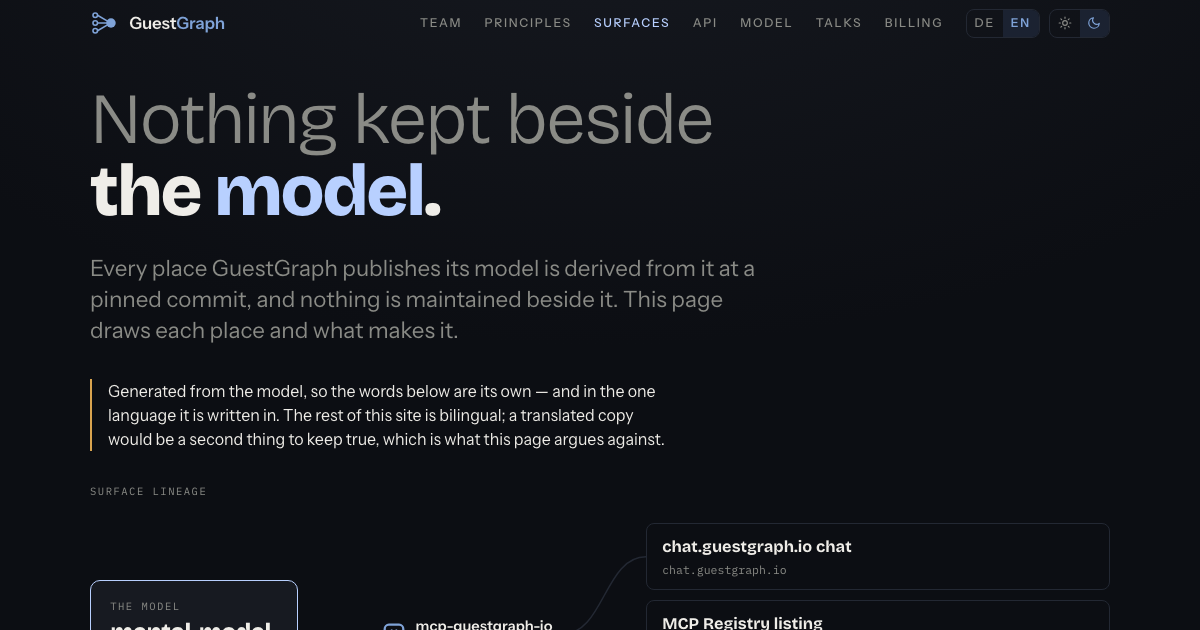
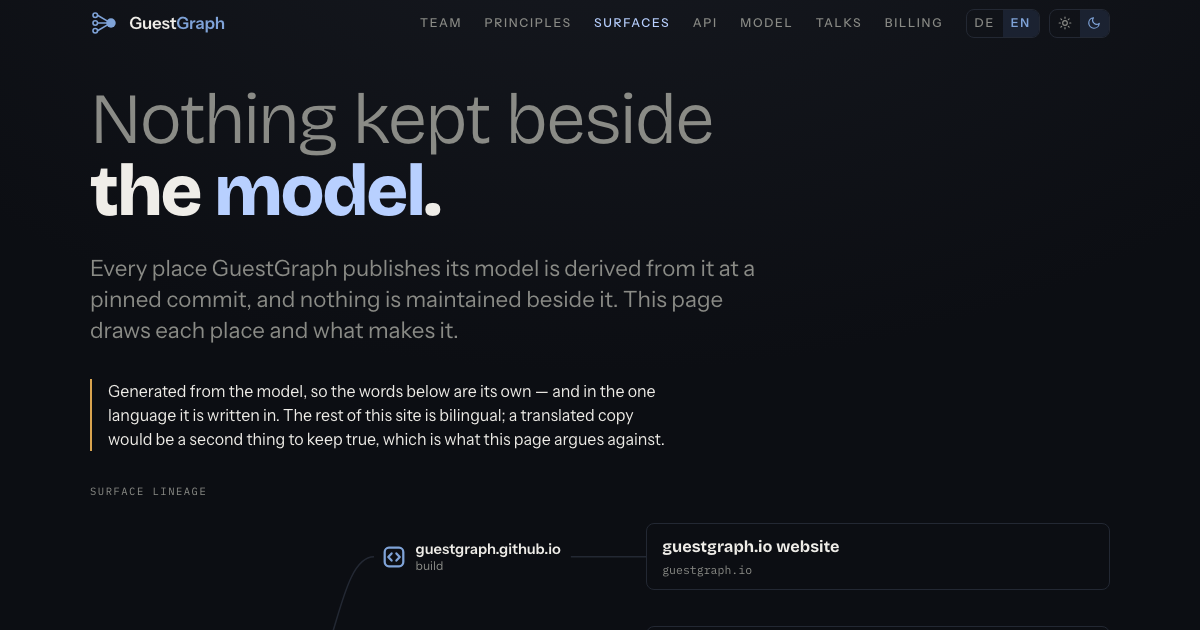
The site draws the model at the merge that made it a surface
`source.json` moves from 1ed82ea to e80418e, guestgraph/mental-model#4's merge, where guestgraph.io is a surface built by this repository. `model.json` is rebuilt, the regions are rendered again, and the lineage on /surfaces/ now draws this site under its own maker.

Verified: npm run model:check and pages:check pass at e80418e.

diff --git a/principles/index.html b/principles/index.html
@@ -262,7 +262,7 @@
       </article>
     </section>
 
-    <p class="derived" data-de="Erzeugt aus <a href='https://github.com/guestgraph/mental-model'>guestgraph/mental-model</a>@1ed82ea – <code class='mono'>model/vision.md</code> und <code class='mono'>model/values/</code>. Dieses Repository ist eine Instanz von <a href='https://companygraph.io/'>CompanyGraph</a>, einem Meta-Modell, das ein Unternehmen als Graph aus Markdown beschreibt.">Generated from <a href="https://github.com/guestgraph/mental-model">guestgraph/mental-model</a>@1ed82ea — <code class="mono">model/vision.md</code> and <code class="mono">model/values/</code>. That repository is an instance of <a href="https://companygraph.io/">CompanyGraph</a>, a meta-model for describing a company as a graph of Markdown.</p>
+    <p class="derived" data-de="Erzeugt aus <a href='https://github.com/guestgraph/mental-model'>guestgraph/mental-model</a>@e80418e – <code class='mono'>model/vision.md</code> und <code class='mono'>model/values/</code>. Dieses Repository ist eine Instanz von <a href='https://companygraph.io/'>CompanyGraph</a>, einem Meta-Modell, das ein Unternehmen als Graph aus Markdown beschreibt.">Generated from <a href="https://github.com/guestgraph/mental-model">guestgraph/mental-model</a>@e80418e — <code class="mono">model/vision.md</code> and <code class="mono">model/values/</code>. That repository is an instance of <a href="https://companygraph.io/">CompanyGraph</a>, a meta-model for describing a company as a graph of Markdown.</p>
     <!-- principles:end -->
   </div>
 </main>

diff --git a/surfaces/index.html b/surfaces/index.html
@@ -284,8 +284,14 @@
       <!-- surfaces:start -->
       <div class="lineage" id="lineage">
         <svg class="wires" id="wires" aria-hidden="true"></svg>
-        <div class="ln-model" id="lnmodel"><div class="lbl" data-de="Das Modell">The model</div><div class="nm">mental-model</div><div class="at mono">@1ed82ea</div></div>
+        <div class="ln-model" id="lnmodel"><div class="lbl" data-de="Das Modell">The model</div><div class="nm">mental-model</div><div class="at mono">@e80418e</div></div>
         <ul class="ln-groups">
+          <li class="ln-group">
+            <div class="ln-maker" data-maker="https://github.com/guestgraph/guestgraph.github.io"><svg class="mk build" aria-hidden="true"><use href="#m-build"/></svg><span class="who">guestgraph.github.io<span class="how" data-de="Build">build</span></span></div>
+            <ul class="ln-surfaces">
+              <li><button class="ln-s" type="button" id="guestgraph-io-website" data-id="surfaces/guestgraph-io-website" data-maker="https://github.com/guestgraph/guestgraph.github.io" aria-pressed="false" aria-controls="lnpanel"><span class="nm">guestgraph.io website</span><span class="host">guestgraph.io</span></button></li>
+            </ul>
+          </li>
           <li class="ln-group">
             <div class="ln-maker" data-maker="https://github.com/guestgraph/mcp-guestgraph-io"><svg class="mk build" aria-hidden="true"><use href="#m-build"/></svg><span class="who">mcp-guestgraph-io<span class="how" data-de="Build">build</span></span></div>
             <ul class="ln-surfaces">
